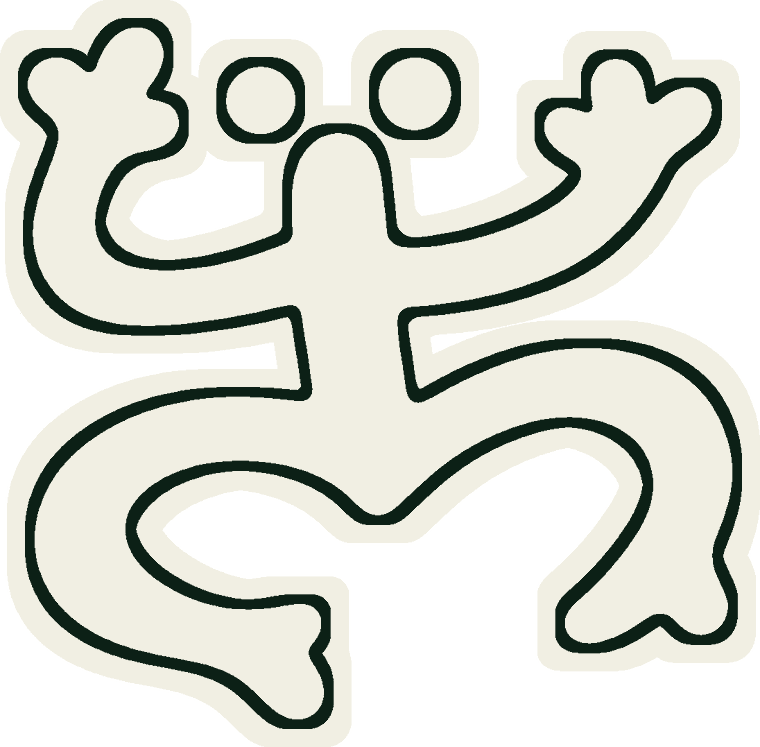
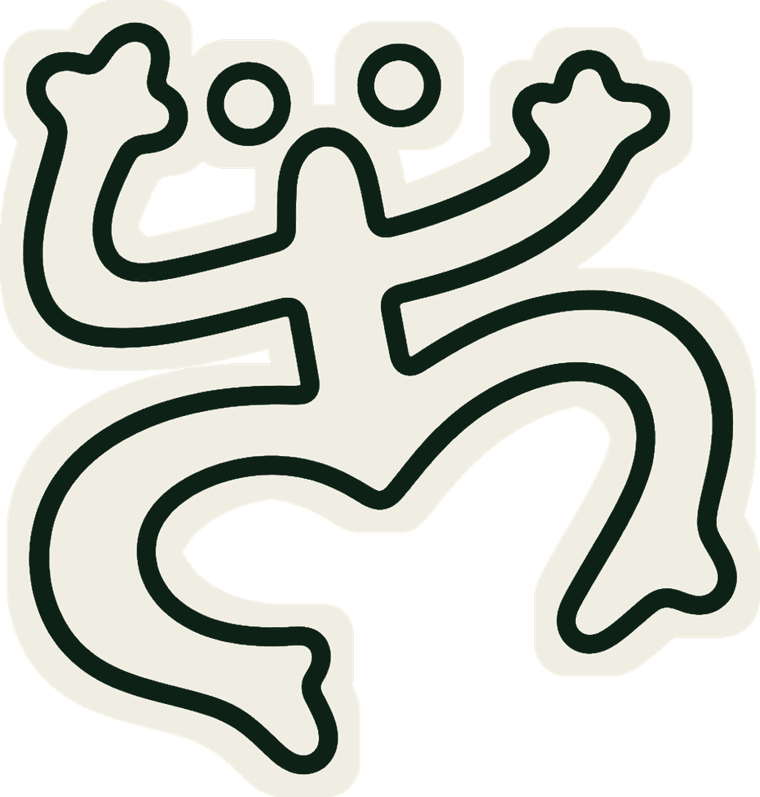
Swap the coquí for the outline drawing
The version I cut last time came from a solid silhouette, which forced a
different construction: grow a keyline around the figure and a margin
outside that, because filling the shape green would have made it vanish
into the page. It worked, but it was the only sticker on the site built
backwards from the others.

This source is an outline, so the normal cut applies. Flood the
background inward from the canvas edge, and what the line encloses
becomes paper. Cream body, green line, cream die cut, exactly like the
portrait, the elephant, Jordan and the house. Five stickers, one method.

Height changed from 747 to 797, so the three call sites are updated with
it. next/image uses those numbers to reserve the box before the file
arrives; leaving them stale would have shifted the sticker as it loaded.

Verified in the browser on all three: about, homepage, Coqui study.

Claude-Session: https://claude.ai/code/session_018KmZfB3zVW6k5Pn1LkK38w

diff --git a/src/app/page.tsx b/src/app/page.tsx
@@ -97,7 +97,7 @@ export default function Home() {
               <InlineSticker
                 src="/media/coqui-taino.png"
                 width={760}
-                height={747}
+                height={797}
                 size="8rem"
                 tilt={3.5}
               >

diff --git a/src/app/about/page.tsx b/src/app/about/page.tsx
@@ -142,7 +142,7 @@ export default function About() {
             <InlineSticker
               src="/media/coqui-taino.png"
               width={760}
-              height={747}
+              height={797}
               size="8rem"
               tilt={-3}
             >

diff --git a/src/app/work/coqui-cardboard/page.tsx b/src/app/work/coqui-cardboard/page.tsx
@@ -183,7 +183,7 @@ export default function Coqui() {
             <InlineSticker
               src="/media/coqui-taino.png"
               width={760}
-              height={747}
+              height={797}
               size="8rem"
               tilt={-4}
             >
